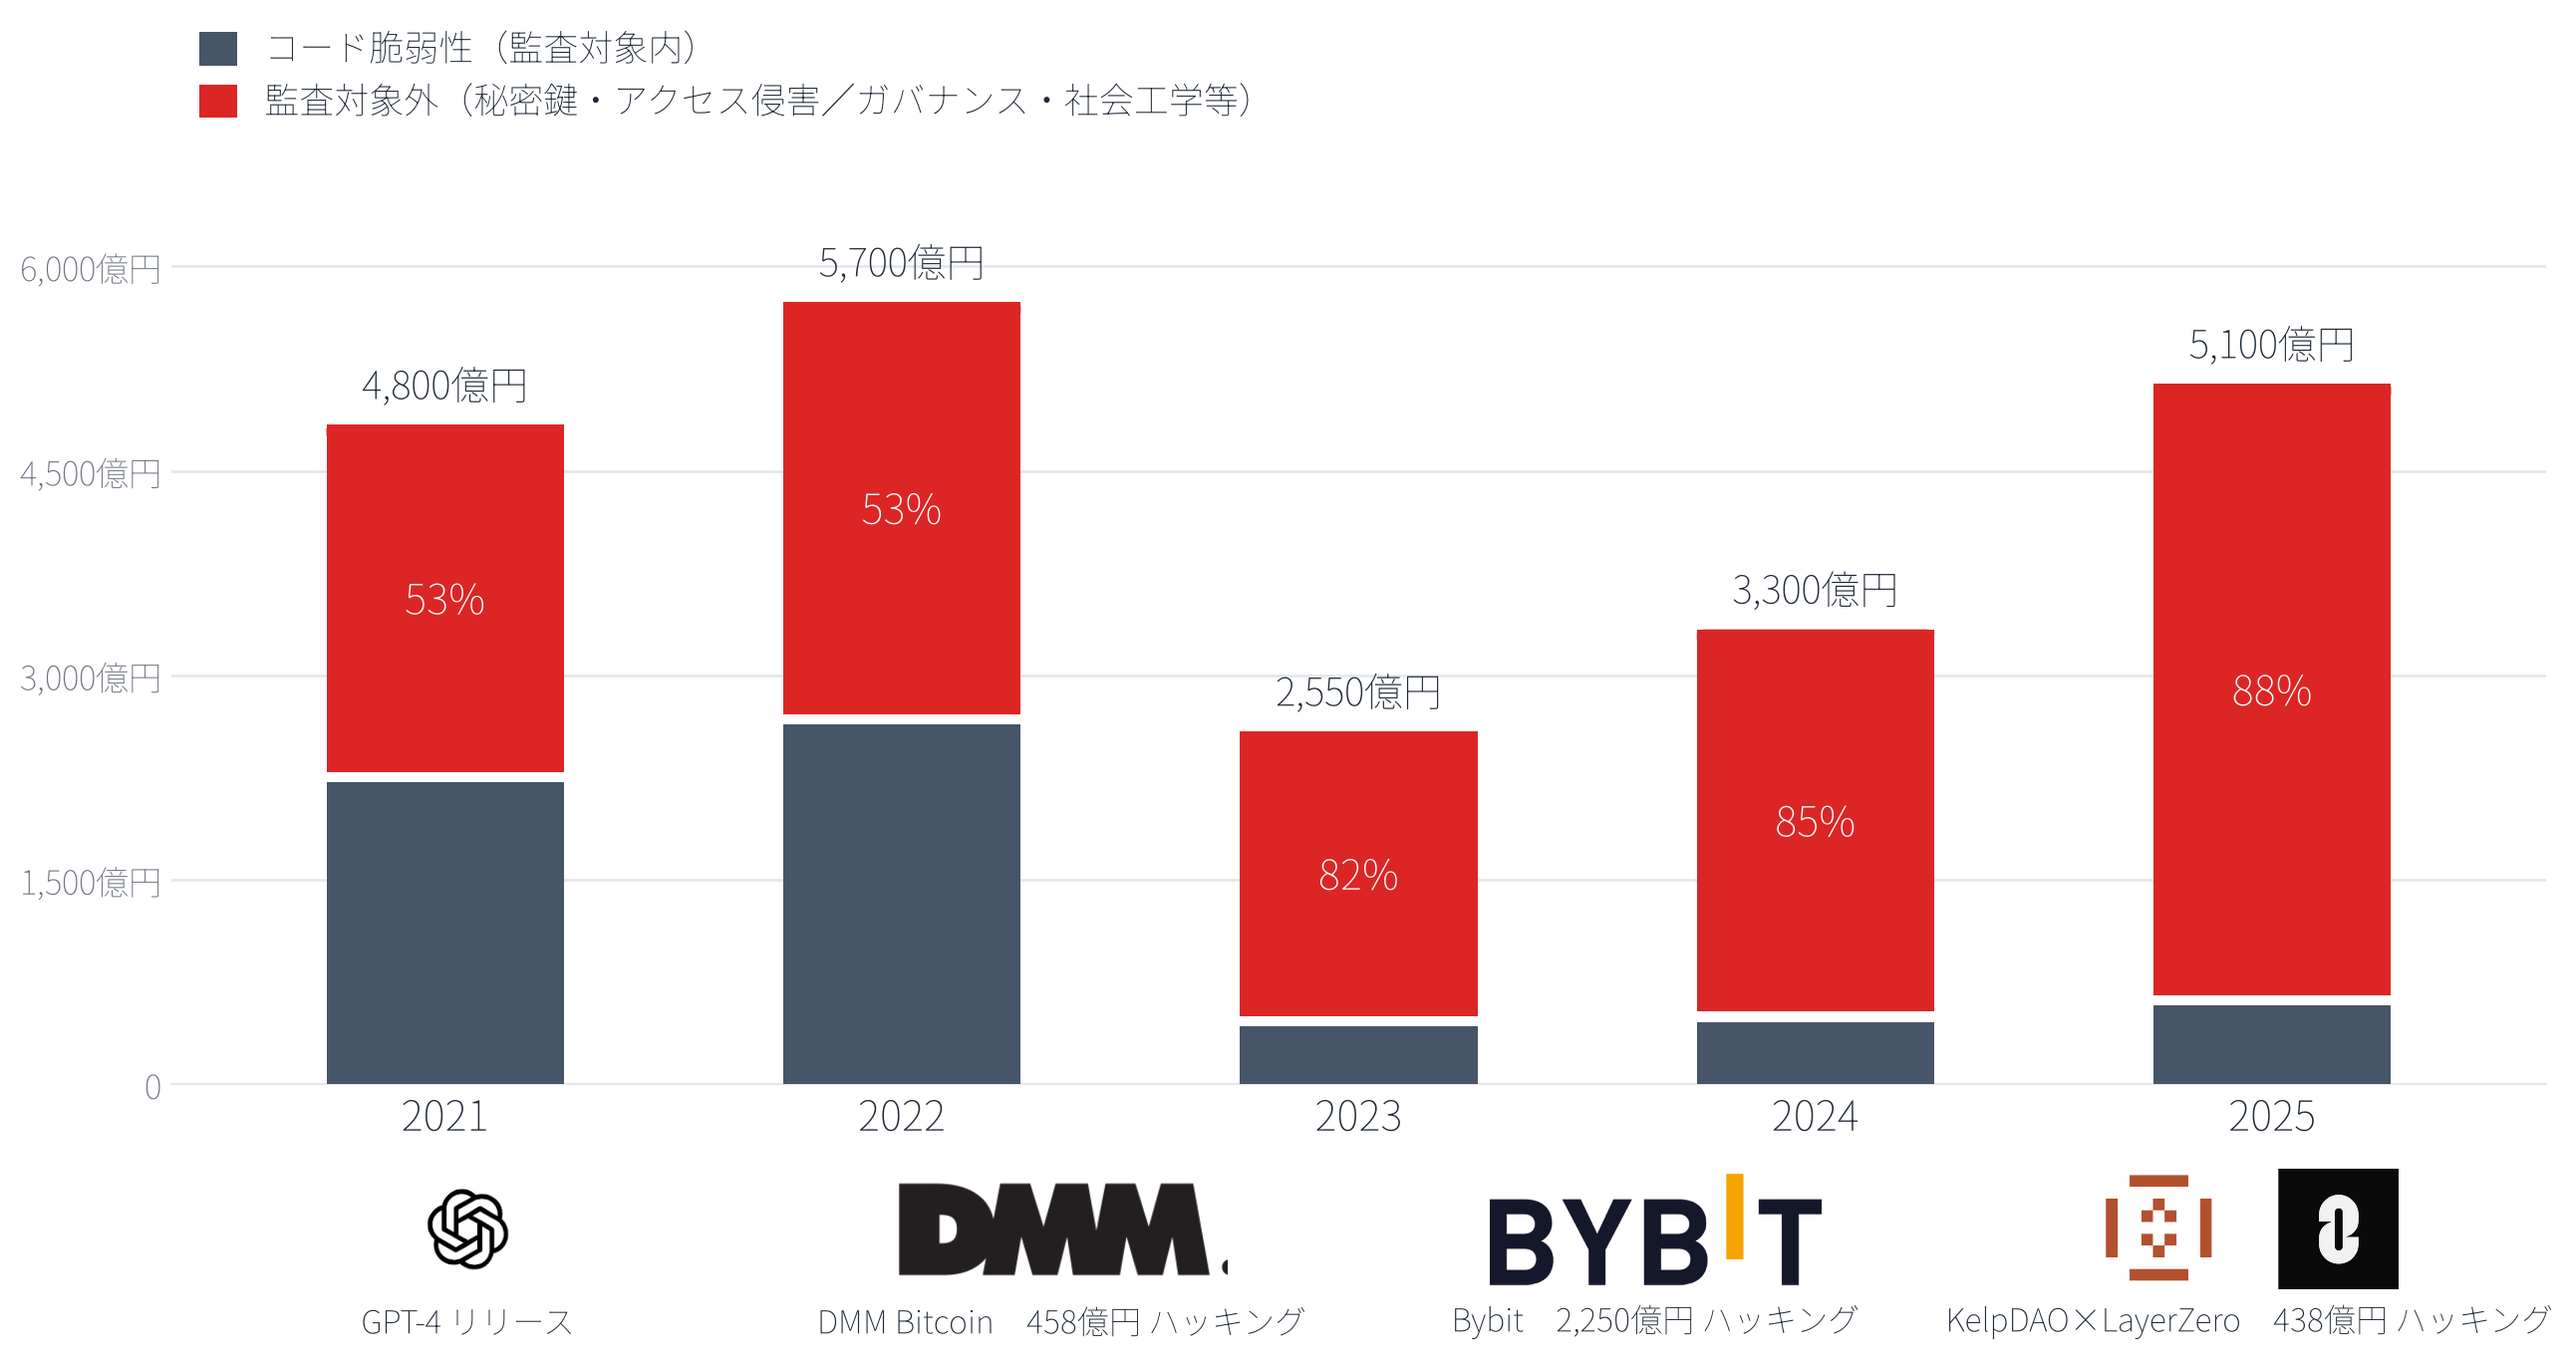
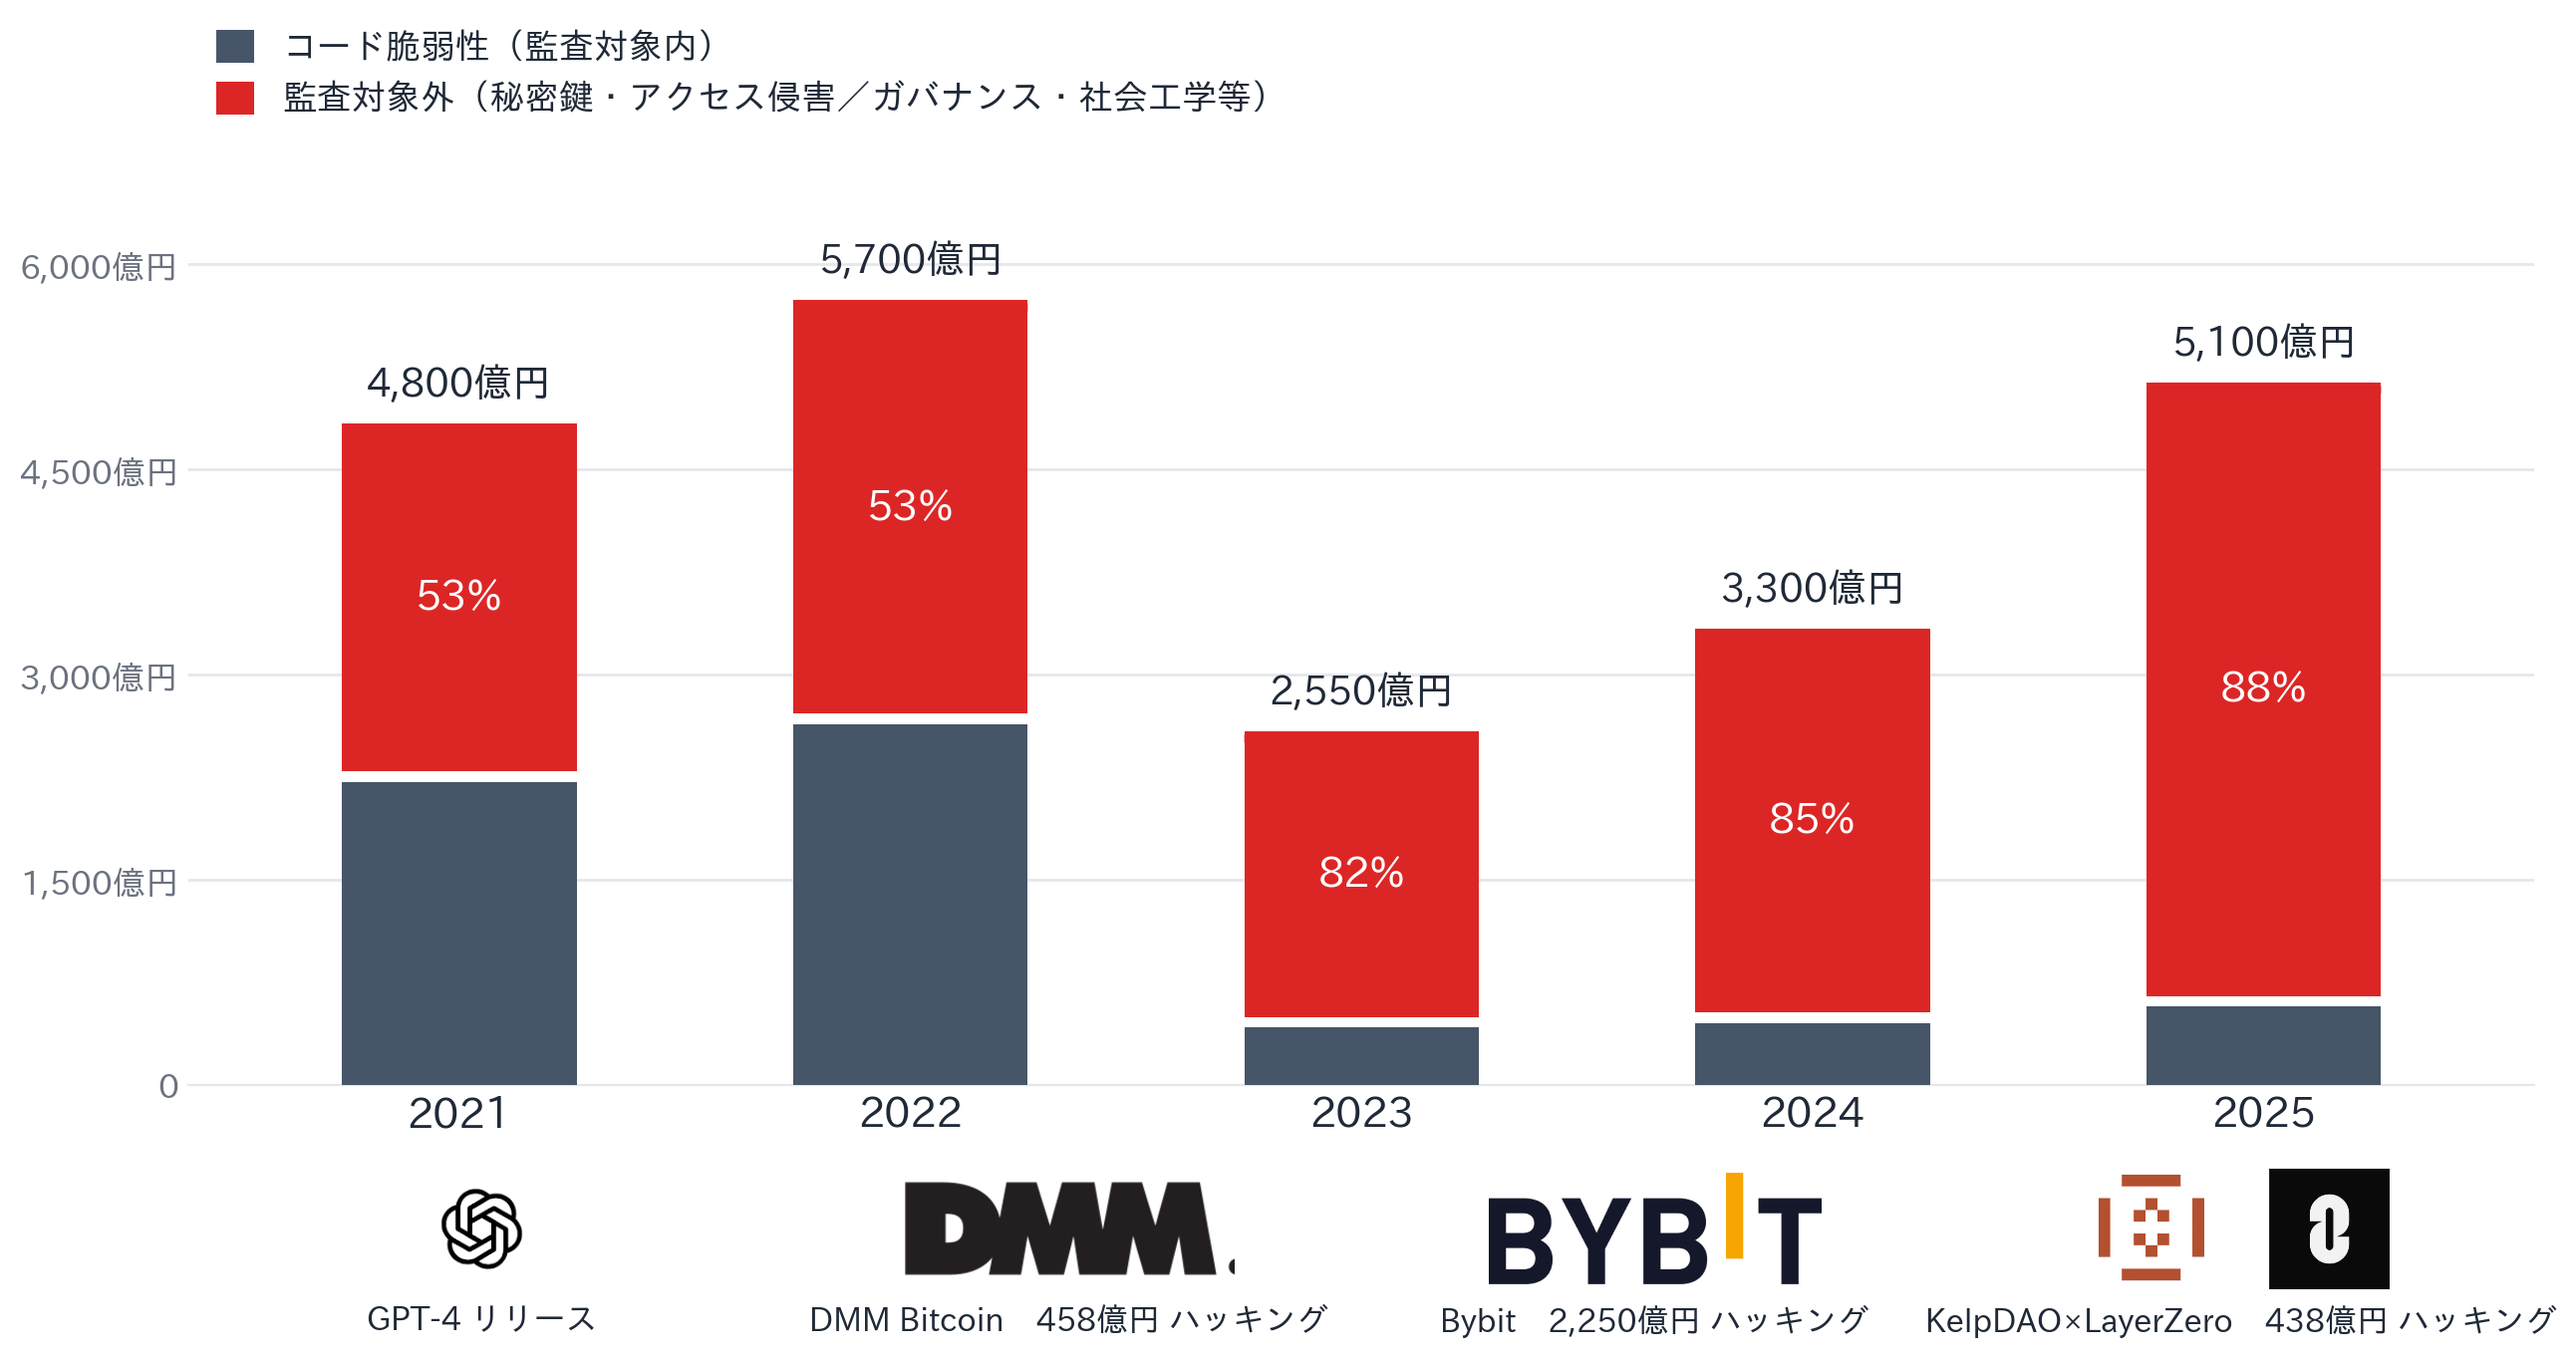
p6 (SL07): scope gap をベン図から「監査対象外流出の推移」グラフに差し替え
- 別 PC で作業されていたスライド側の差し替えが push されていなかったため復元:
  グラフ資産 (figures/scope_gap_chart.py, 7487c01 でコミット済) は存在していたが
  SL07 が scope_gap.svg (ベン図) のままだった
- scope_gap_chart.png を再生成して SL07 に接続、タイトルを
  「流出の 88% は監査の外で起きた」に変更
- Sources footer に換算レート・内訳の概算注記・KelpDAO 仮想シナリオ注記を明記
- speaker notes をグラフの読み方 (赤の比率 53%→88% / 下段イベント帯) に書き直し

diff --git a/slides/SL07.md b/slides/SL07.md
@@ -2,13 +2,30 @@
 layout: default
 ---
 
-# セキュリティの課題: 攻撃面は防御スコープを<strong>大きく</strong>超えて広がっている
+# セキュリティの課題 — <span class="text-amber-700">流出の 88% は監査の外で起きた</span>
 
-<div class="mt-2">
-<img src="/images/scope_gap.svg" class="w-full max-h-[500px] object-contain" />
+<div class="mt-2 flex justify-center">
+<img src="/images/scope_gap_chart.png" class="max-h-[440px] w-auto object-contain" />
+</div>
+
+<div class="absolute bottom-3 left-6 text-[10px] text-gray-400 leading-tight max-w-3xl">
+Sources: Chainalysis "Crypto Crime Report" (2022-2026 各年版) ｜ 円換算は $1 = ¥150 の概算 ｜ 監査対象内 / 対象外の内訳は Chainalysis の attack-vector 分類に基づく概算 ｜ KelpDAO × LayerZero は 2026 年想定の仮想シナリオ
 </div>
 
 <!--
 Speaker Notes:
-この図が S1 のすべてです。右上の大きな赤い領域が、現実の攻撃面です。ソースコードはもちろん、ガバナンス、ソーシャル工学、KMS や RPC ノードといったオペレーション、ウォレットの UI、AI を使った無人化攻撃、クロスチェーン bridge — 全部が攻撃面です。左下の小さな青い領域が、防御側のスコープです。バグバウンティ、コード監査が見ているのは、ソースコードと既知の脆弱性パターン、オンチェーンのロジックだけ。点線の矢印が示すように、この差分が攻撃の侵入路です。重要なのは、これは監査が「不十分」なのではなく、「原理的に届かない」領域があるということです。ガバナンス投票が正しく行われたか、RPC ノードが改ざんされていないか、UI 表示が実際の transaction と一致しているか — こうした性質を「証明する」のは、コードレビューでは無理です。これらを暗号で検証可能にしなければならない、というのが S1-A の結論です。具体例を次のスライドで見ます。
+
+【概要】
+この 1 枚が S1 のすべて。年ごとのクリプト総流出額 (棒の高さ) と、そのうち「監査の射程の外」で起きた割合 (赤) の推移。生成スクリプト: figures/scope_gap_chart.py。
+
+【グラフの読み方】
+- グレー = コード脆弱性 (バグバウンティ・コード監査の対象内)。赤 = 監査対象外 — 秘密鍵・アクセス侵害、ガバナンス、社会工学、運用インフラ。
+- 2021-22 は流出の約半分がコード脆弱性だった。2023 年以降、赤の比率が 82% → 85% → 88% と支配的になっていく。棒の高さ (総額) が減らないまま、流出の「場所」がコードの外へ移った。
+- 下の帯は各年を象徴する事件・出来事: GPT-4 リリース (2023、攻撃の AI 無人化の起点)、DMM Bitcoin 458 億円 (2024、秘密鍵管理)、Bybit 2,250 億円 (2025、Safe UI と署名の乖離)、そして KelpDAO × LayerZero 438 億円 (2026 年想定の仮想シナリオ、RPC インフラ)。いずれも赤の領域で起きた。
+
+【結論 (次のスライド群への接続)】
+重要なのは、これは監査が「不十分」なのではなく「原理的に届かない」領域があるということ。ガバナンス投票が正しく行われたか、RPC ノードが改ざんされていないか、UI 表示が実際の transaction と一致しているか — こうした性質を「証明する」のはコードレビューでは無理で、暗号で検証可能にするしかない。これが S1-A の結論であり、このあと KelpDAO の解剖 (p7-8) と Proof-of-Exploit (p9) で具体化する。
+
+【数値の扱い】
+年次総額は Chainalysis Crypto Crime Report 系列の概数 ($3.2B / $3.8B / $1.7B / $2.2B / $3.4B を $1=¥150 で換算)。内訳比率は attack-vector 分類に基づく概算で、質問されたら「配布資料の出典リンク参照」と答える。KelpDAO は教材用の仮想シナリオである点を必ず口頭でも明示する。
 -->
